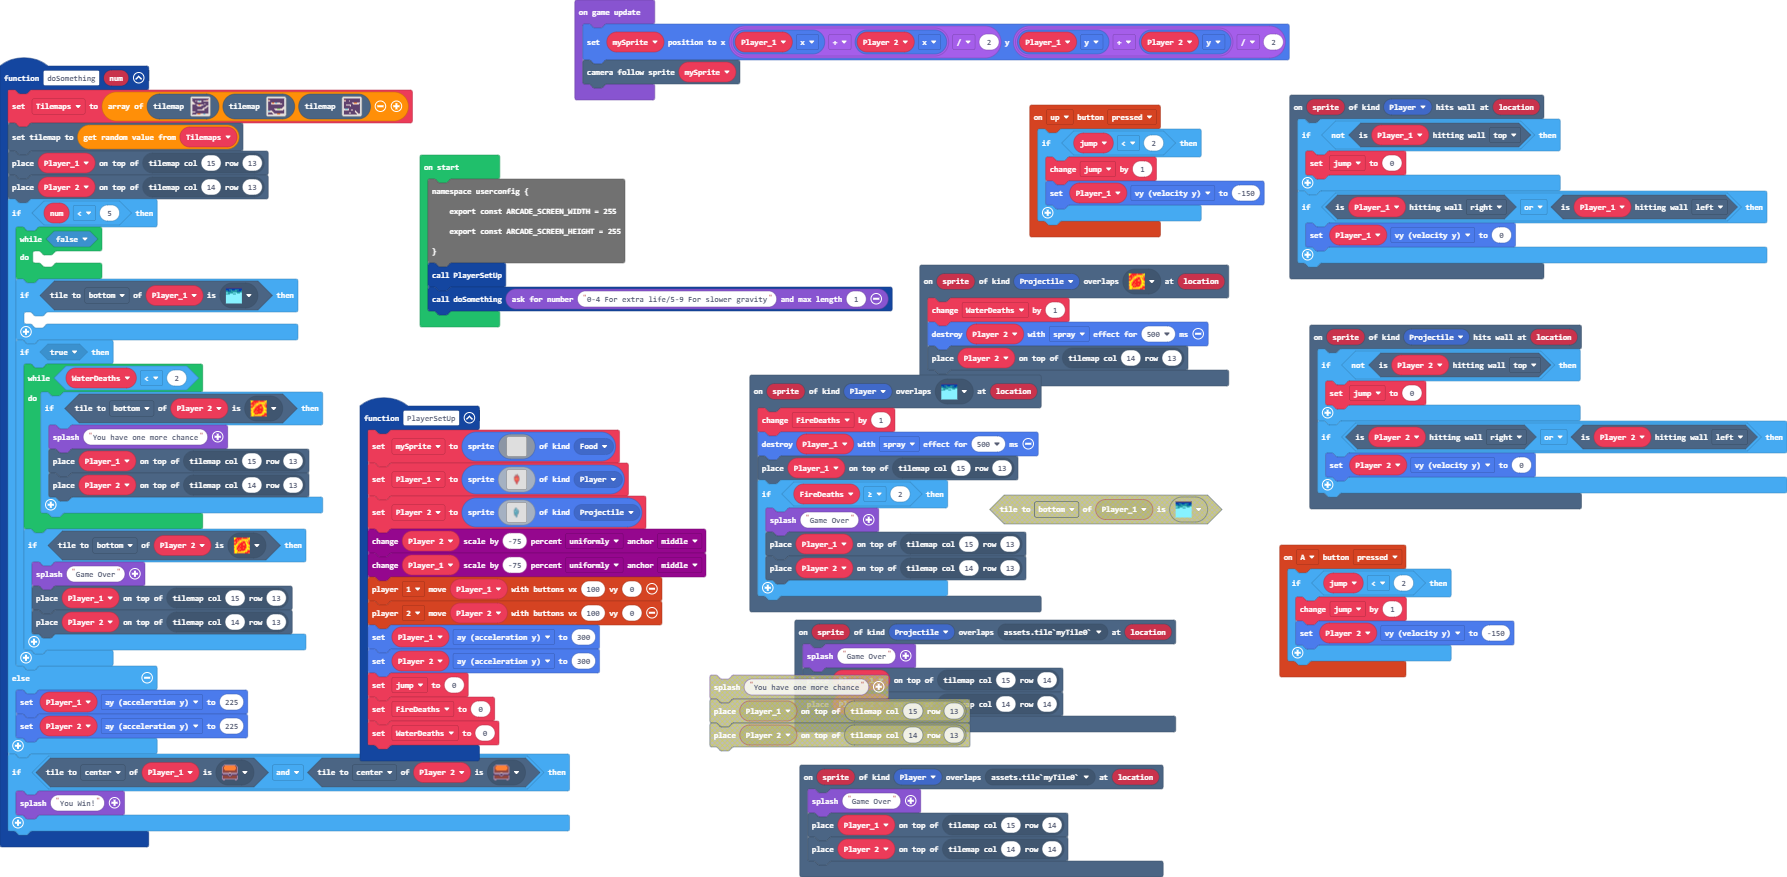
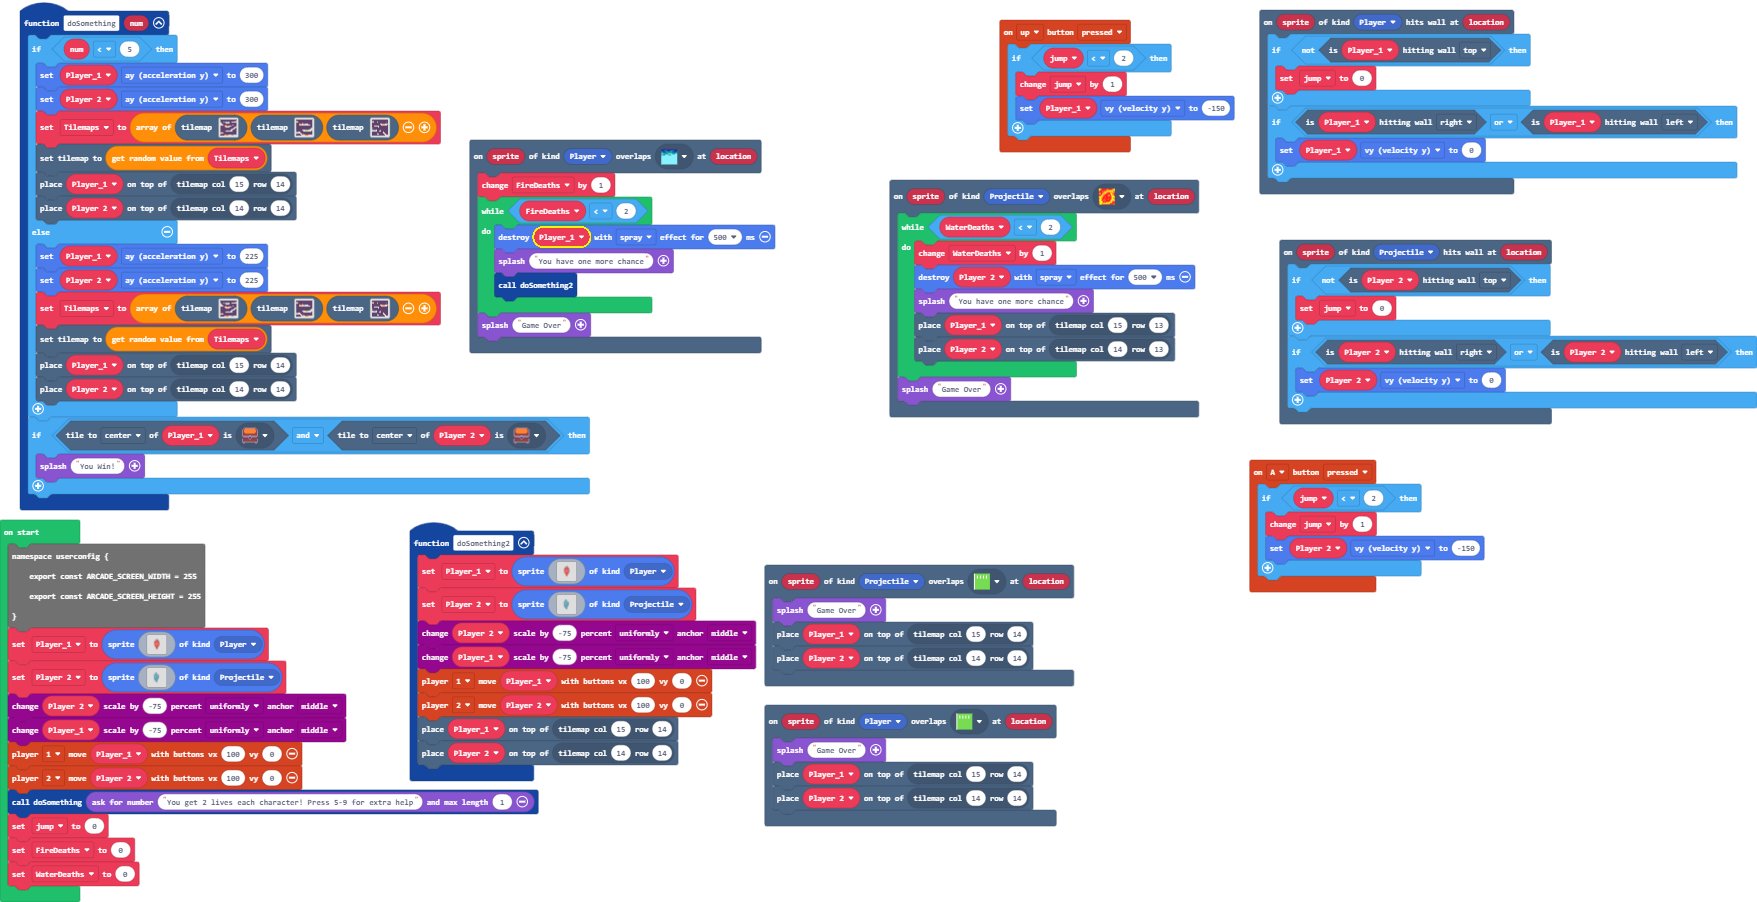
Restore '1/29/2024, 9:10:25 PM Update main.blocks, main.ts, tilemap.g.jres, tilemap.g.ts'

diff --git a/main.ts b/main.ts
@@ -17,15 +17,29 @@ scene.onOverlapTile(SpriteKind.Player, sprites.builtin.field0, function (sprite,
     tiles.placeOnTile(Player_1, tiles.getTileLocation(15, 14))
     tiles.placeOnTile(Player_2, tiles.getTileLocation(14, 14))
 })
-controller.B.onEvent(ControllerButtonEvent.Pressed, function () {
+scene.onOverlapTile(SpriteKind.Projectile, sprites.dungeon.hazardLava0, function (sprite, location) {
+    while (WaterDeaths < 2) {
+        WaterDeaths += 1
+        sprites.destroy(Player_2, effects.spray, 500)
+        game.splash("You have one more chance")
+        tiles.placeOnTile(Player_1, tiles.getTileLocation(15, 13))
+        tiles.placeOnTile(Player_2, tiles.getTileLocation(14, 13))
+    }
+    game.splash("Game Over")
+})
+controller.A.onEvent(ControllerButtonEvent.Pressed, function () {
     if (jump < 2) {
         jump += 1
         Player_2.vy = -150
     }
 })
-function TilemapSetUp (num: number) {
+scene.onOverlapTile(SpriteKind.Projectile, sprites.builtin.field0, function (sprite, location) {
+    game.splash("Game Over")
+    tiles.placeOnTile(Player_1, tiles.getTileLocation(15, 14))
+    tiles.placeOnTile(Player_2, tiles.getTileLocation(14, 14))
+})
+function doSomething (num: number) {
     if (num < 5) {
-        mySprite = 1
         Player_1.ay = 300
         Player_2.ay = 300
         Tilemaps = [tilemap`level 1`, tilemap`level3`, tilemap`level11`]
@@ -33,9 +47,8 @@ function TilemapSetUp (num: number) {
         tiles.placeOnTile(Player_1, tiles.getTileLocation(15, 14))
         tiles.placeOnTile(Player_2, tiles.getTileLocation(14, 14))
     } else {
-        mySprite = 2
-        Player_1.ay = 150
-        Player_2.ay = 150
+        Player_1.ay = 225
+        Player_2.ay = 225
         Tilemaps = [tilemap`level 1`, tilemap`level3`, tilemap`level11`]
         tiles.setCurrentTilemap(Tilemaps._pickRandom())
         tiles.placeOnTile(Player_1, tiles.getTileLocation(15, 14))
@@ -45,52 +58,14 @@ function TilemapSetUp (num: number) {
         game.splash("You Win!")
     }
 }
-scene.onOverlapTile(SpriteKind.Projectile, sprites.dungeon.hazardLava0, function (sprite, location) {
-    while (WaterDeaths < 1) {
-        WaterDeaths += 1
-        sprites.destroy(Player_2, effects.spray, 500)
-        game.splash("You have one more chance")
-        Movement()
-        pauseUntil(() => Player_1.tileKindAt(TileDirection.Bottom, sprites.dungeon.hazardWater) || Player_2.tileKindAt(TileDirection.Bottom, sprites.dungeon.hazardLava0))
-        game.splash("Game Over")
-    }
-})
-function Movement () {
-    sprites.destroy(Player_1, effects.spray, 500)
-    sprites.destroy(Player_2, effects.spray, 500)
-    Player_1 = sprites.create(assets.image`fire boy water girl`, SpriteKind.Player)
-    Player_2 = sprites.create(assets.image`fire boy water girl0`, SpriteKind.Projectile)
-    scaling.scaleByPercent(Player_2, -75, ScaleDirection.Uniformly, ScaleAnchor.Middle)
-    scaling.scaleByPercent(Player_1, -75, ScaleDirection.Uniformly, ScaleAnchor.Middle)
-    tiles.placeOnTile(Player_1, tiles.getTileLocation(15, 14))
-    tiles.placeOnTile(Player_2, tiles.getTileLocation(14, 14))
-    controller.player1.moveSprite(Player_1, 100, 0)
-    controller.player2.moveSprite(Player_2, 100, 0)
-    if (mySprite == 1) {
-        Player_1.ay = 300
-        Player_2.ay = 300
-    } else {
-        Player_1.ay = 150
-        Player_2.ay = 150
-    }
-}
-scene.onOverlapTile(SpriteKind.Projectile, sprites.dungeon.collectibleBlueCrystal, function (sprite, location) {
-    tiles.setTileAt(location, assets.tile`myTile`)
-    info.changeScoreBy(1)
-})
-scene.onOverlapTile(SpriteKind.Projectile, sprites.builtin.field0, function (sprite, location) {
-    game.splash("Game Over")
-    tiles.placeOnTile(Player_1, tiles.getTileLocation(15, 14))
-    tiles.placeOnTile(Player_2, tiles.getTileLocation(14, 14))
-})
 scene.onOverlapTile(SpriteKind.Player, sprites.dungeon.hazardWater, function (sprite, location) {
-    while (FireDeaths < 1) {
+    FireDeaths += 1
+    while (FireDeaths < 2) {
         sprites.destroy(Player_1, effects.spray, 500)
         game.splash("You have one more chance")
-        Movement()
-        pauseUntil(() => Player_1.tileKindAt(TileDirection.Bottom, sprites.dungeon.hazardWater) || Player_2.tileKindAt(TileDirection.Bottom, sprites.dungeon.hazardLava0))
-        game.splash("Game Over")
+        doSomething2()
     }
+    game.splash("Game Over")
 })
 scene.onHitWall(SpriteKind.Projectile, function (sprite, location) {
     if (!(Player_2.isHittingTile(CollisionDirection.Top))) {
@@ -100,12 +75,17 @@ scene.onHitWall(SpriteKind.Projectile, function (sprite, location) {
         Player_2.vy = 0
     }
 })
-scene.onOverlapTile(SpriteKind.Player, sprites.dungeon.collectibleRedCrystal, function (sprite, location) {
-    tiles.setTileAt(location, assets.tile`myTile`)
-    info.changeScoreBy(1)
-})
+function doSomething2 () {
+    Player_1 = sprites.create(assets.image`fire boy water girl`, SpriteKind.Player)
+    Player_2 = sprites.create(assets.image`fire boy water girl0`, SpriteKind.Projectile)
+    scaling.scaleByPercent(Player_2, -75, ScaleDirection.Uniformly, ScaleAnchor.Middle)
+    scaling.scaleByPercent(Player_1, -75, ScaleDirection.Uniformly, ScaleAnchor.Middle)
+    controller.player1.moveSprite(Player_1, 100, 0)
+    controller.player2.moveSprite(Player_2, 100, 0)
+    tiles.placeOnTile(Player_1, tiles.getTileLocation(15, 14))
+    tiles.placeOnTile(Player_2, tiles.getTileLocation(14, 14))
+}
 let Tilemaps: tiles.TileMapData[] = []
-let mySprite = 0
 let WaterDeaths = 0
 let FireDeaths = 0
 let jump = 0
@@ -121,8 +101,7 @@ scaling.scaleByPercent(Player_2, -75, ScaleDirection.Uniformly, ScaleAnchor.Midd
 scaling.scaleByPercent(Player_1, -75, ScaleDirection.Uniformly, ScaleAnchor.Middle)
 controller.player1.moveSprite(Player_1, 100, 0)
 controller.player2.moveSprite(Player_2, 100, 0)
-TilemapSetUp(game.askForNumber("You get 2 lives each character! Press 5-9 for extra help", 1))
-info.setScore(0)
+doSomething(game.askForNumber("You get 2 lives each character! Press 5-9 for extra help", 1))
 jump = 0
 FireDeaths = 0
 WaterDeaths = 0
